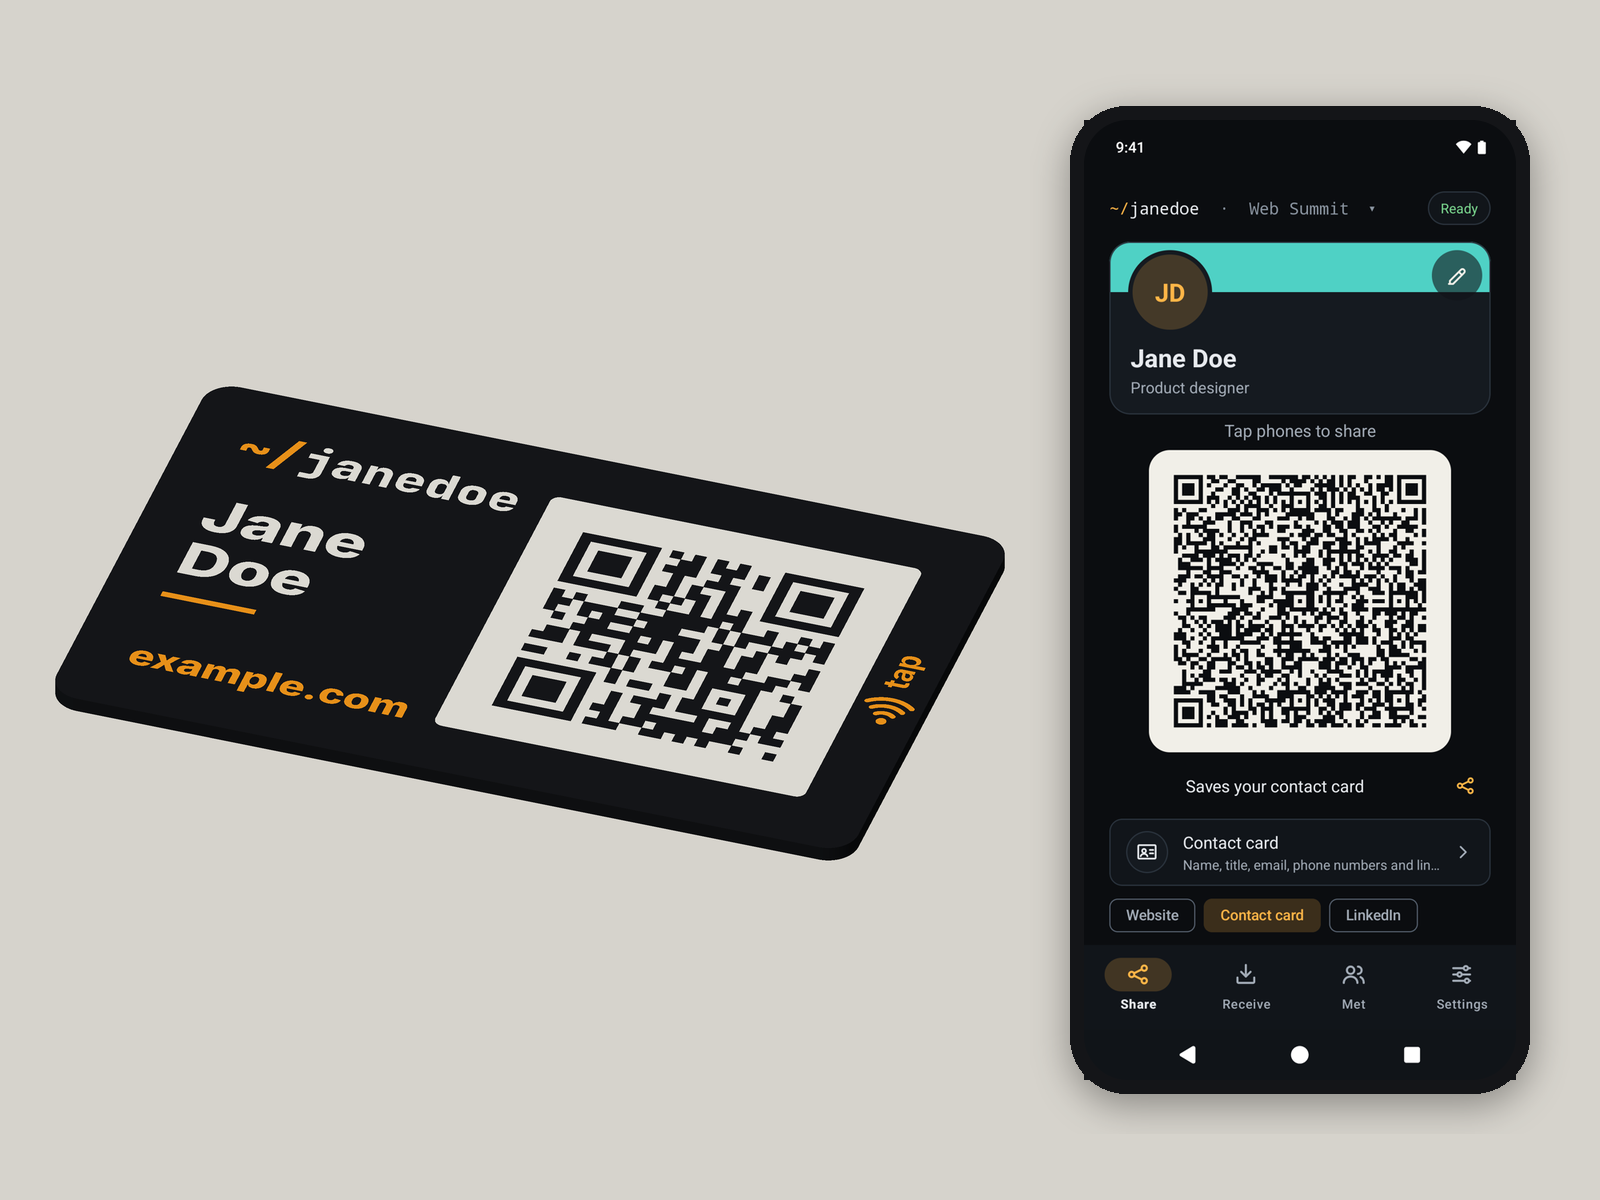
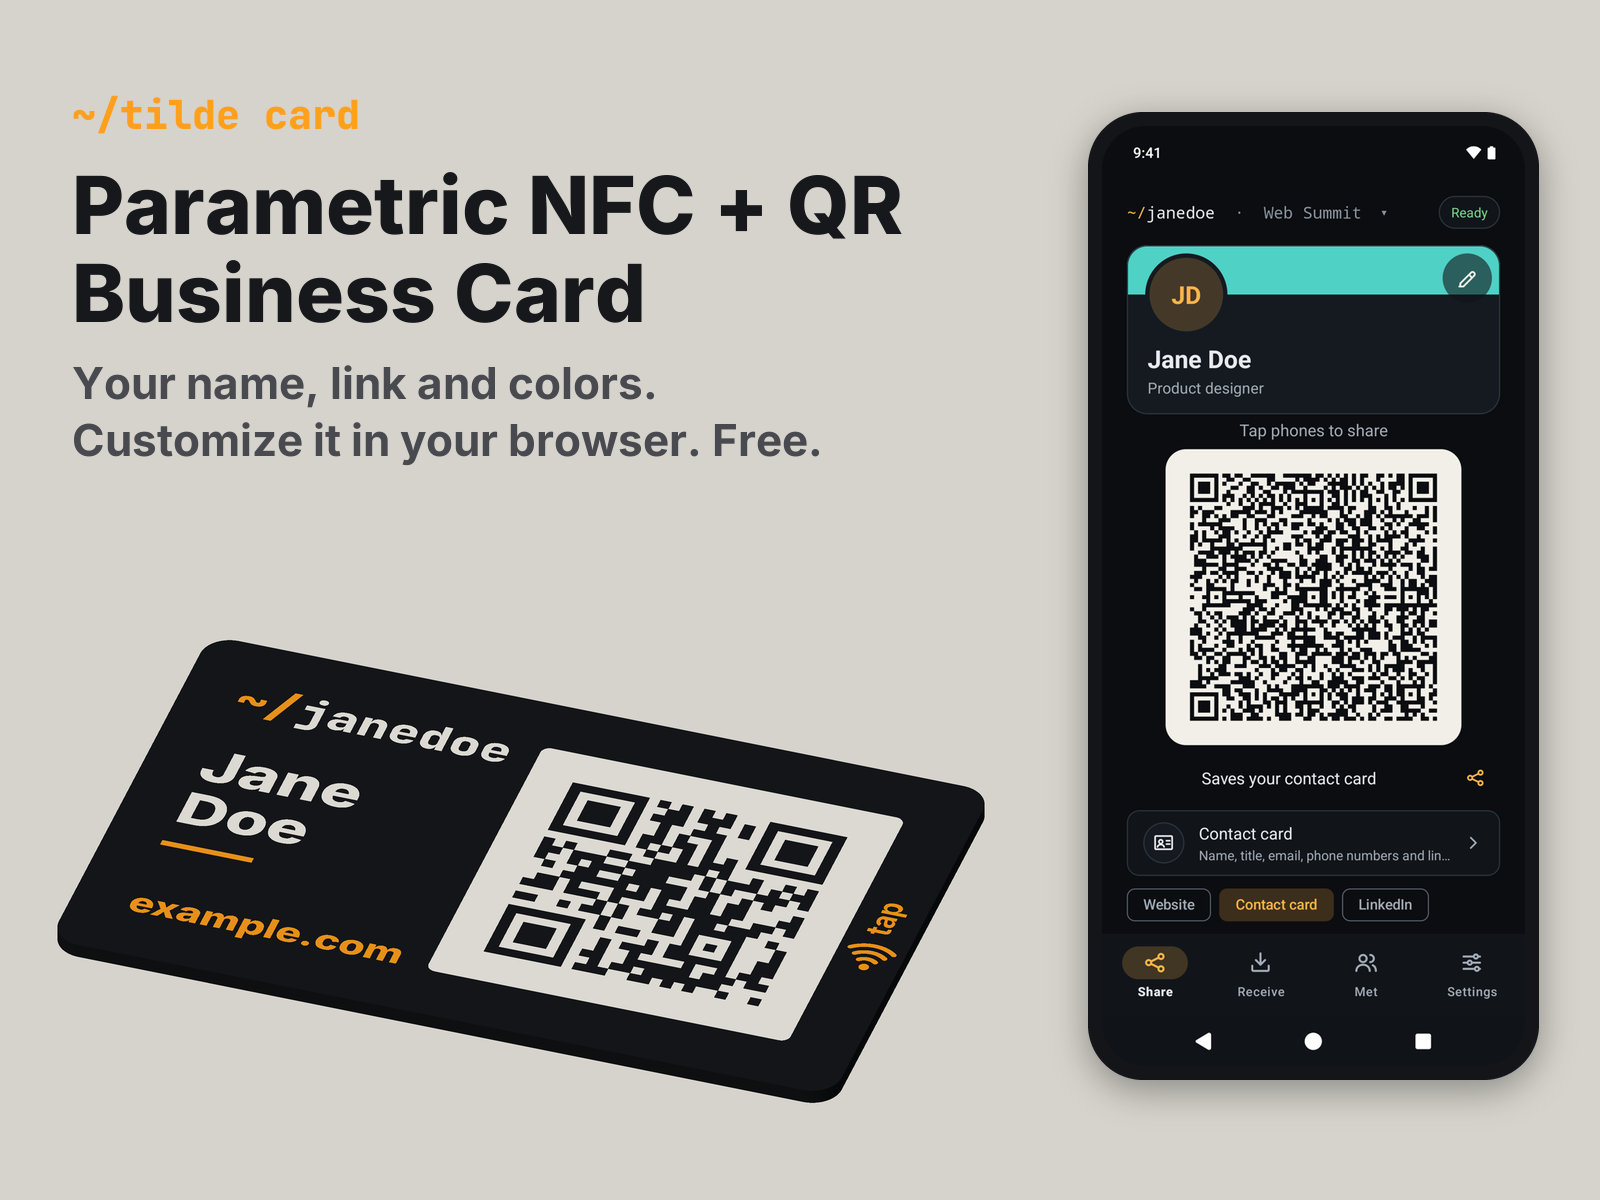
Cover: the card and app with the title
01-cover.png is now cover-card-app-title.png (byte-identical), and
make_covers.py writes it from that variant so the two stay in sync. The
listing's caption reads 'Parametric NFC + QR business card: customize it
in your browser'.

diff --git a/scripts/make_covers.py b/scripts/make_covers.py
@@ -1,8 +1,11 @@
 """Build the MakerWorld cover options in makerworld/images/covers/, 1600 x 1200 PNGs:
 
 - cover-card.png: the card on its own
-- cover-card-app.png: the card and the app on a phone (the layout of makerworld/images/01-cover.png)
+- cover-card-app.png: the card and the app on a phone (the layout of the first cover)
 - cover-card-title.png, cover-card-app-title.png: the same with a title
+
+The chosen one, cover-card-app-title.png, is also copied to makerworld/images/01-cover.png, the
+model page's cover.
 
 From the repo's own assets: the sample card's render (out/makerworld-sample/preview.png, written
 by build.sh), the app screenshot makerworld/images/05-app-share.png and the fonts in fonts/. The
@@ -11,6 +14,7 @@ phone is drawn here.
     .venv/bin/python scripts/make_covers.py
 """
 
+import shutil
 from pathlib import Path
 
 import numpy as np
@@ -135,6 +139,8 @@ def main():
     cover.save(OUT / "cover-card-app-title.png", optimize=True)
     for name in ["cover-card", "cover-card-app", "cover-card-title", "cover-card-app-title"]:
         print(f"wrote makerworld/images/covers/{name}.png")
+    shutil.copyfile(OUT / "cover-card-app-title.png", ROOT / "makerworld" / "images" / "01-cover.png")
+    print("wrote makerworld/images/01-cover.png (cover-card-app-title.png)")
 
 
 if __name__ == "__main__":

diff --git a/docs/DESIGN.md b/docs/DESIGN.md
@@ -58,7 +58,7 @@ Two versions are built from the same model, `out/nozzle-0.2/` and `out/nozzle-0.
 | `out/nozzle-*/preview.png` | A 3/4 render of the front, from the color STLs. |
 | `out/local/` | Your own card, built from `card.local.scad` when it exists, in the same layout as `out/`. Git-ignored. |
 | `fonts/` | Static instances of the site's variable fonts (SIL Open Font License; see the license files). |
-| `scripts/` | Checks (`verify.py`, `test_qr.py`), the preview render, the MakerWorld copy and the MakerWorld cover options (`make_covers.py`, into `makerworld/images/covers/`). |
+| `scripts/` | Checks (`verify.py`, `test_qr.py`), the preview render, the MakerWorld copy and the MakerWorld cover options (`make_covers.py`, into `makerworld/images/covers/`, and the chosen one to `makerworld/images/01-cover.png`). |
 
 ## Build
 

diff --git a/makerworld/listing.md b/makerworld/listing.md
@@ -46,7 +46,7 @@ open pocket at the pause, with a sticker going in; a stack of cards on the plate
 
 | File | Caption |
 | --- | --- |
-| `01-cover.png` | Tilde turns your phone into an NFC business card; print a Tilde card to go with it |
+| `01-cover.png` | Parametric NFC + QR business card: customize it in your browser |
 | `02-card-3d.png` | Four colors, printed in one go |
 | `03-front.png` | The front: your name, your link and a QR code |
 | `04-back.png` | The back: a terminal window with your details |
